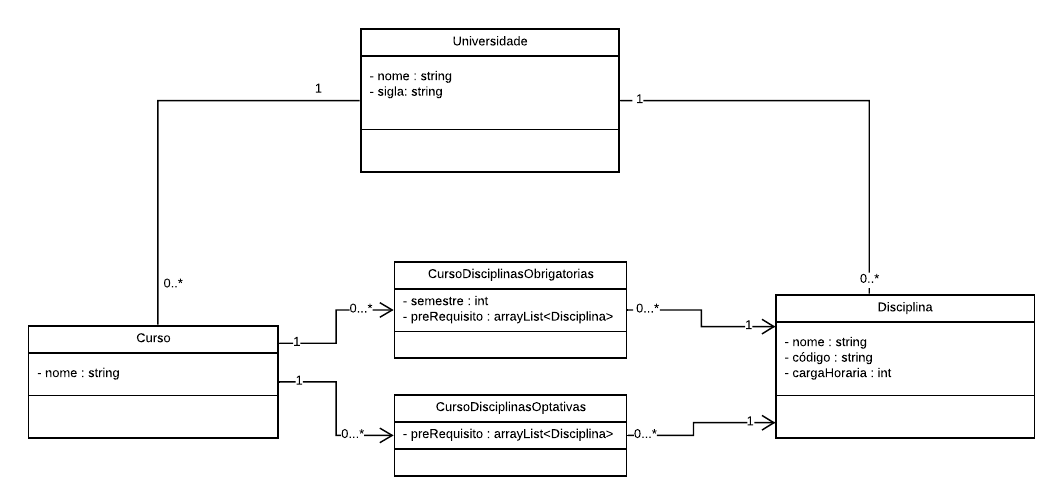
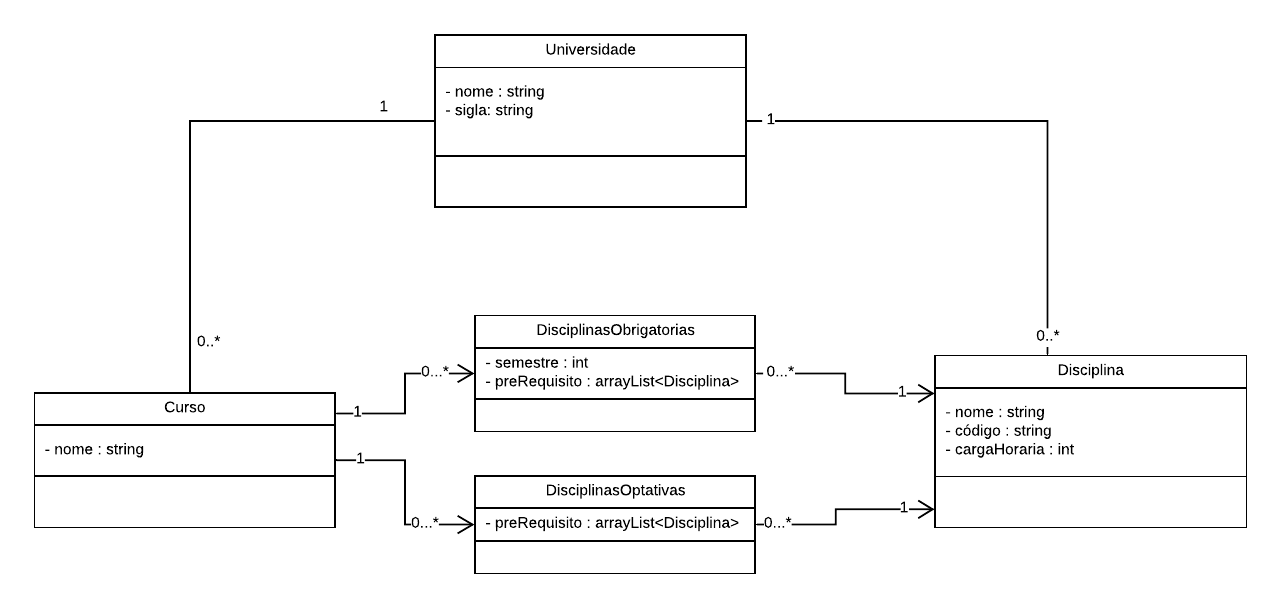
fix UML

diff --git a/src/sistemaacademico/classes/Curso.java b/src/sistemaacademico/classes/Curso.java
@@ -7,13 +7,12 @@ package sistemaacademico.classes;
 
 import java.util.ArrayList;
 
-/**
- *
- * @author guest-ychbik
- */
+
 public class Curso {
     private String nome;
-    private ArrayList<Disciplina> disciplinasObrigatorias, disciplinasOptativas;
+    private ArrayList<DisciplinaObrigatoria> disciplinasObrigatoria ;
+    private ArrayList<DisciplinaOptativa>  disciplinasOptativas;
+    
 
     public Curso(String nome) {
         this.nome = nome;

diff --git a/src/sistemaacademico/classes/Universidade.java b/src/sistemaacademico/classes/Universidade.java
@@ -5,15 +5,12 @@
  */
 package sistemaacademico.classes;
 
-/**
- *
- * @author guest-ychbik
- */
-public class Departamento {
+
+public class Universidade {
     private String nome;
     private String sigla;
 
-    public Departamento(String nome, String sigla) {
+    public Universidade(String nome, String sigla) {
         this.nome = nome;
         this.sigla = sigla;
     }

diff --git a/src/sistemaacademico/classes/DisciplinaObrigatoria.java b/src/sistemaacademico/classes/DisciplinaObrigatoria.java
@@ -1,0 +1,14 @@
+package sistemaacademico.classes;
+
+import java.util.ArrayList;
+
+public class DisciplinaObrigatoria {
+
+	private int semestre; 
+	private ArrayList<Disciplina> preRequisito;
+	
+	public DisciplinaObrigatoria(int semestre) {
+		this.semestre=semestre;
+	}
+
+}

diff --git a/src/sistemaacademico/classes/DisciplinaOptativa.java b/src/sistemaacademico/classes/DisciplinaOptativa.java
@@ -1,0 +1,13 @@
+package sistemaacademico.classes;
+
+import java.util.ArrayList;
+
+public class DisciplinaOptativa {
+
+	private ArrayList<Disciplina> preRequisito;
+	
+	public DisciplinaOptativa() {
+		
+	}
+
+}
